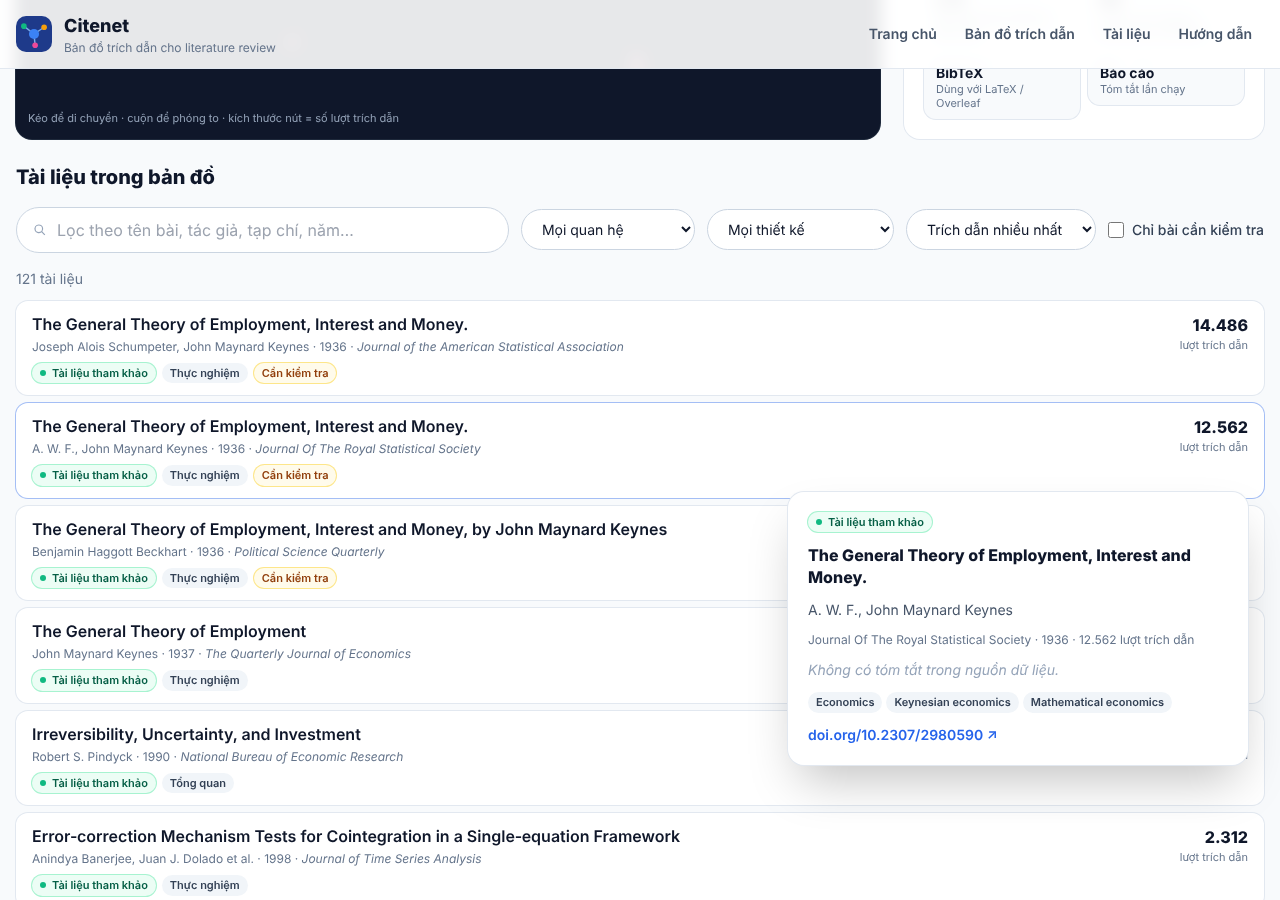
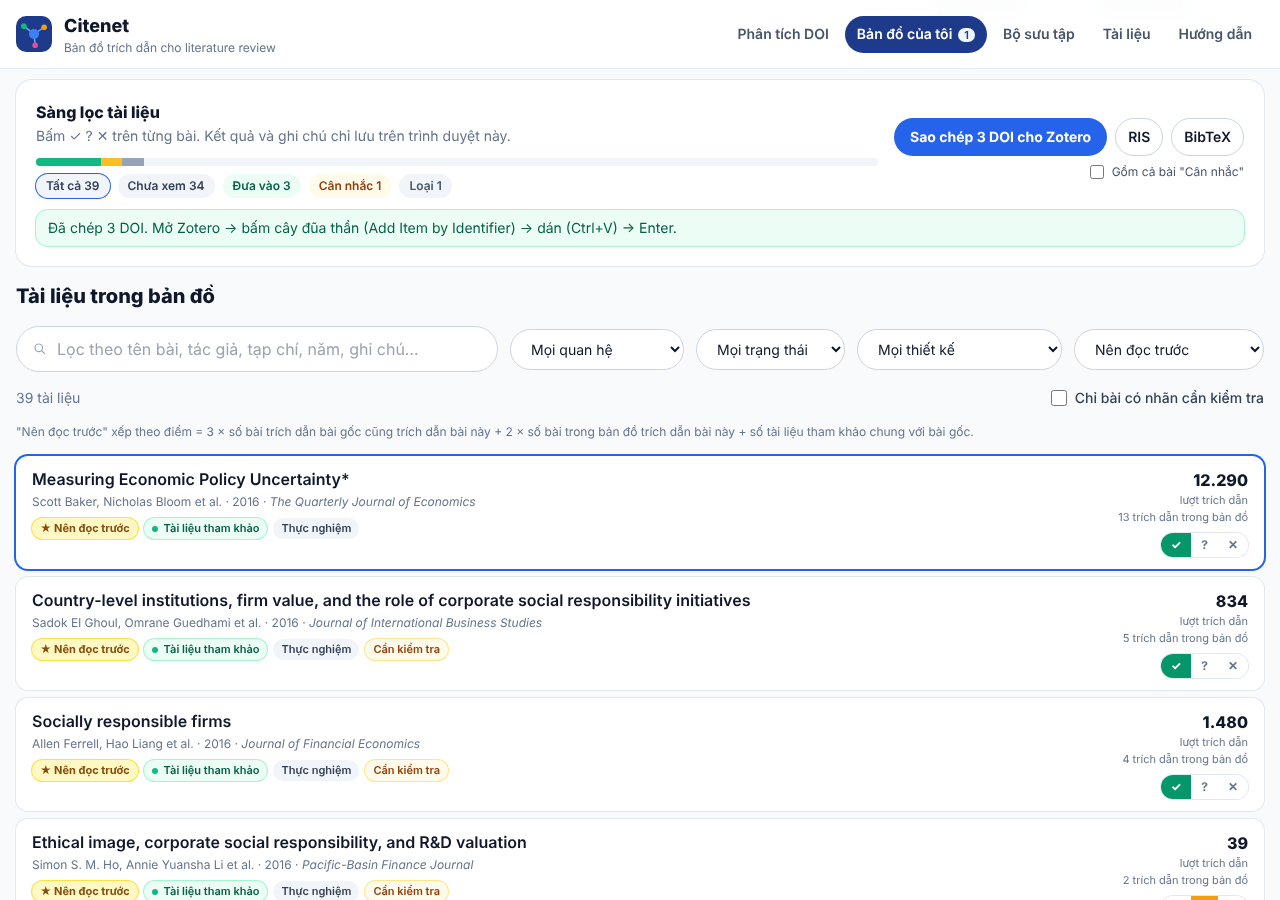
Hướng dẫn và README: bản đồ thông minh, sàng lọc, đưa vào Zotero
Claude-Session: https://claude.ai/code/session_01JmjkGEyBGUbjCr3d3PZaxc

diff --git a/src/pages/Guide.jsx b/src/pages/Guide.jsx
@@ -43,6 +43,30 @@ export default function Guide() {
       </section>
 
       <section className={card}>
+        <h2 className="mb-4 text-lg font-extrabold">Bản đồ thông minh và "Nên đọc trước"</h2>
+        <p className="text-sm text-slate-700">
+          Chế độ <strong>Theo thời gian</strong> đặt bài cũ bên trái, bài mới bên phải, bài được trích dẫn nhiều ở trên cao. Mũi tên nối hai bài khi bài này
+          trích dẫn bài kia (kể cả giữa các tài liệu tham khảo với nhau), nên bạn thấy được bài nào là "gốc rễ" của cả nhóm. Chế độ <strong>Theo nhóm</strong> giữ bố cục cũ của Citenet.
+        </p>
+        <ul className="mt-3 list-disc space-y-1 pl-5 text-sm text-slate-700">
+          <li><strong>Cùng được trích dẫn với bài gốc</strong>: trong số các bài trích dẫn bài gốc, bao nhiêu bài cũng trích dẫn bài này (co-citation). Cao nghĩa là người trong ngành hay đọc hai bài cùng nhau.</li>
+          <li><strong>Bài trong bản đồ trích dẫn</strong>: bao nhiêu bài khác trong bản đồ trích dẫn bài này. Cao nghĩa là bài nền tảng của chủ đề, không chỉ nổi tiếng chung chung.</li>
+          <li><strong>Tài liệu tham khảo chung với bài gốc</strong>: số tài liệu mà cả hai bài cùng trích dẫn (bibliographic coupling). Cao nghĩa là cùng nền tảng lý thuyết.</li>
+        </ul>
+        <p className="mt-3 text-sm text-slate-700">Điểm "Nên đọc trước" = 3 × cùng được trích dẫn + 2 × trích dẫn trong bản đồ + tài liệu tham khảo chung. 10 bài điểm cao nhất có vòng vàng trên biểu đồ.</p>
+      </section>
+
+      <section className={card}>
+        <h2 className="mb-4 text-lg font-extrabold">Sàng lọc và đưa vào Zotero</h2>
+        <ol className="list-decimal space-y-2 pl-5 text-sm text-slate-700">
+          <li>Với mỗi bài, bấm <strong>✓ Đưa vào</strong>, <strong>? Cân nhắc</strong> hoặc <strong>✕ Loại</strong> (trên danh sách hoặc trong bảng chi tiết). Có thể ghi chú lý do. Mọi thứ chỉ lưu trên trình duyệt của bạn.</li>
+          <li>Bấm <strong>Sao chép DOI cho Zotero</strong>: web chép DOI của các bài đã đưa vào, mỗi DOI một dòng.</li>
+          <li>Trong Zotero, bấm nút <strong>cây đũa thần</strong> (Add Item by Identifier), dán (Ctrl+V) rồi Enter. Zotero tự lấy đầy đủ thông tin (tập, số, trang…) cho từng bài.</li>
+          <li>Bài không có DOI: dùng nút RIS/BibTeX cạnh đó, rồi trong Zotero chọn File → Import.</li>
+        </ol>
+      </section>
+
+      <section className={card}>
         <h2 className="mb-4 text-lg font-extrabold">Ý nghĩa các con số</h2>
         <dl className="space-y-3">
           {METRICS.map(([k, v]) => (
